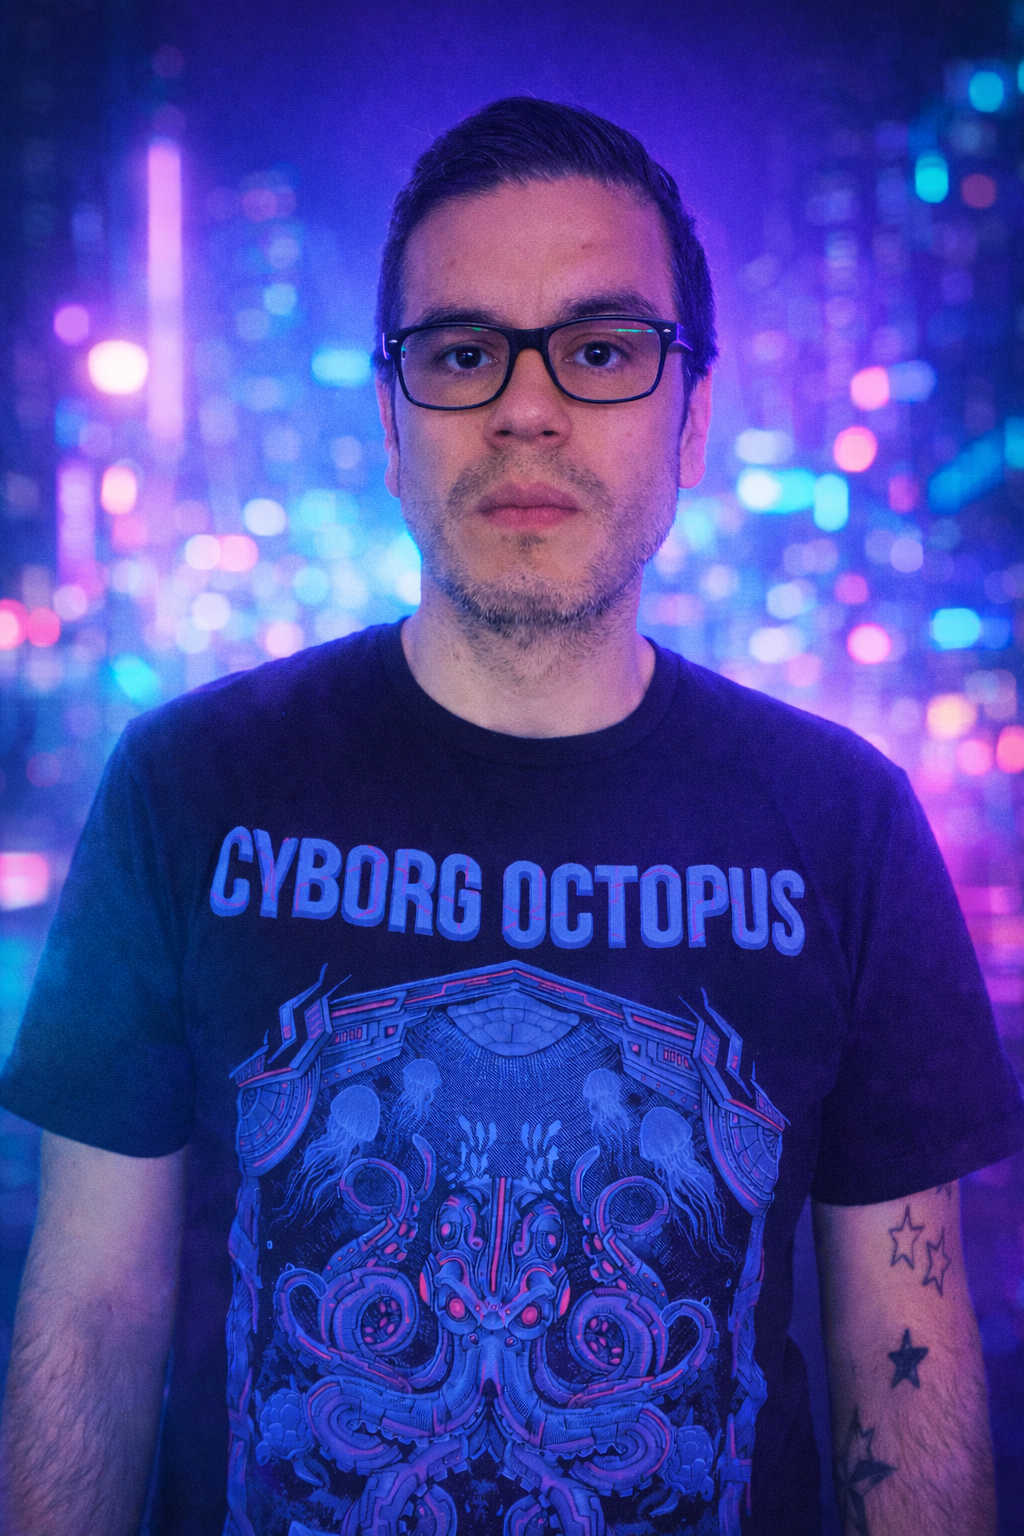
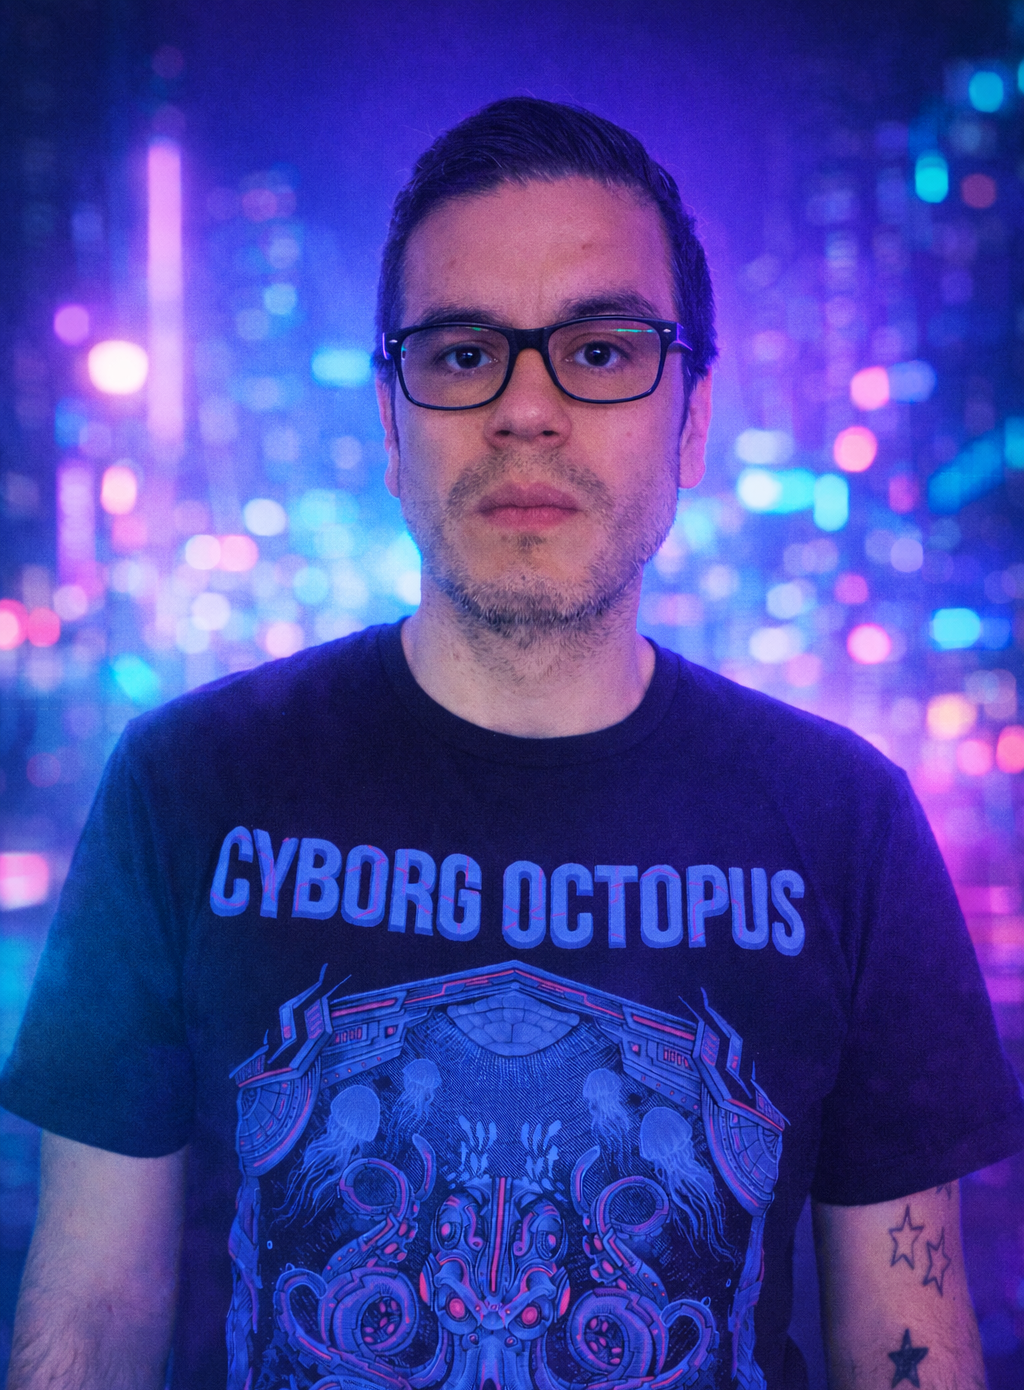
made some adjustments to some info on stories

diff --git a/src/data/albums.js b/src/data/albums.js
@@ -678,7 +678,7 @@ export const albums = [
         startTime: 387,
         duration: 150, // 2:30
         visual: "wave",
-        story: "This track was so dope to make, I was had my speaker almost all the way up. I knew it was good cause none of my neighbors complained lol. I wanted to make a futuristic type beat, but also have it sound HARD like something hood certified like me :). (don't test me, or do if you wanna find out). Making this beat took me back to the projects. So I had to put this on the B-side. I remember I had to take away some of the bass cause I didn't wanna kill peoples speakers, but yeah this is the one I made for the block (12700 block). Just because I make stuff for the hood doesn't mean I'm from it. In the words of my friend David Randolph 'I don't gangbang, but if you wanna tussle let's do this'. I don't claim any hood ever. ",
+        story: "This track was so dope to make, whe I was recording this I had my speakers almost all the way up. I knew it was good cause none of my neighbors complained lol. I wanted to make a futuristic type beat, but also have it sound HARD like something hood certified like me :). (don't test me, or do if you wanna find out). Making this beat took me back to the projects. So I had to put this on the B-side. I remember I had to take away some of the bass cause I didn't wanna kill peoples speakers, but yeah this is the one I made for the block (12700 block). Just because I make stuff for the hood doesn't mean I'm from it. In the words of my friend David Randolph 'I don't gangbang, but if you wanna tussle let's do this'. I don't claim any hood ever. ",
       },
       {
         title: "Suhpongoh-Li",